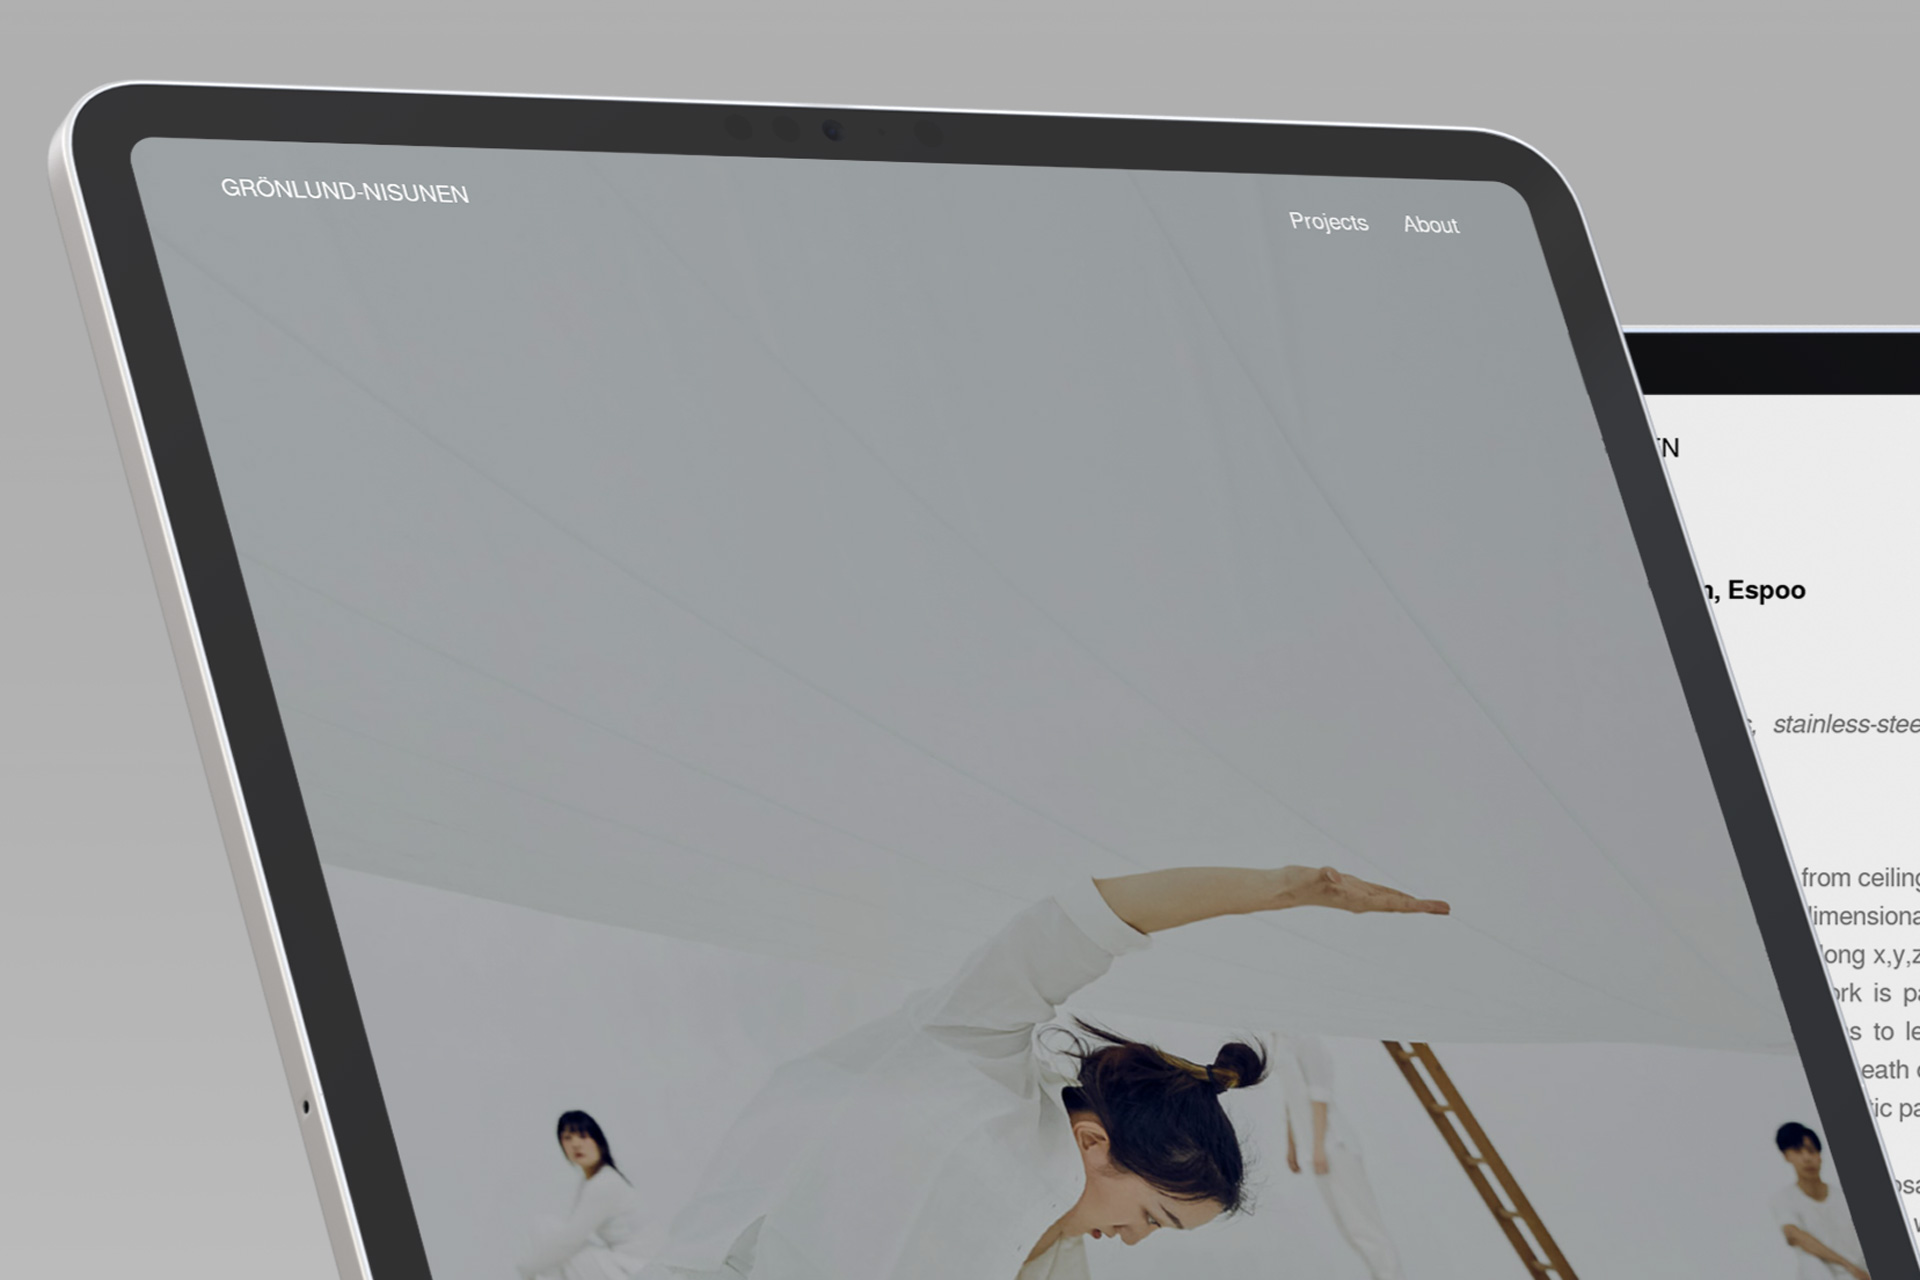
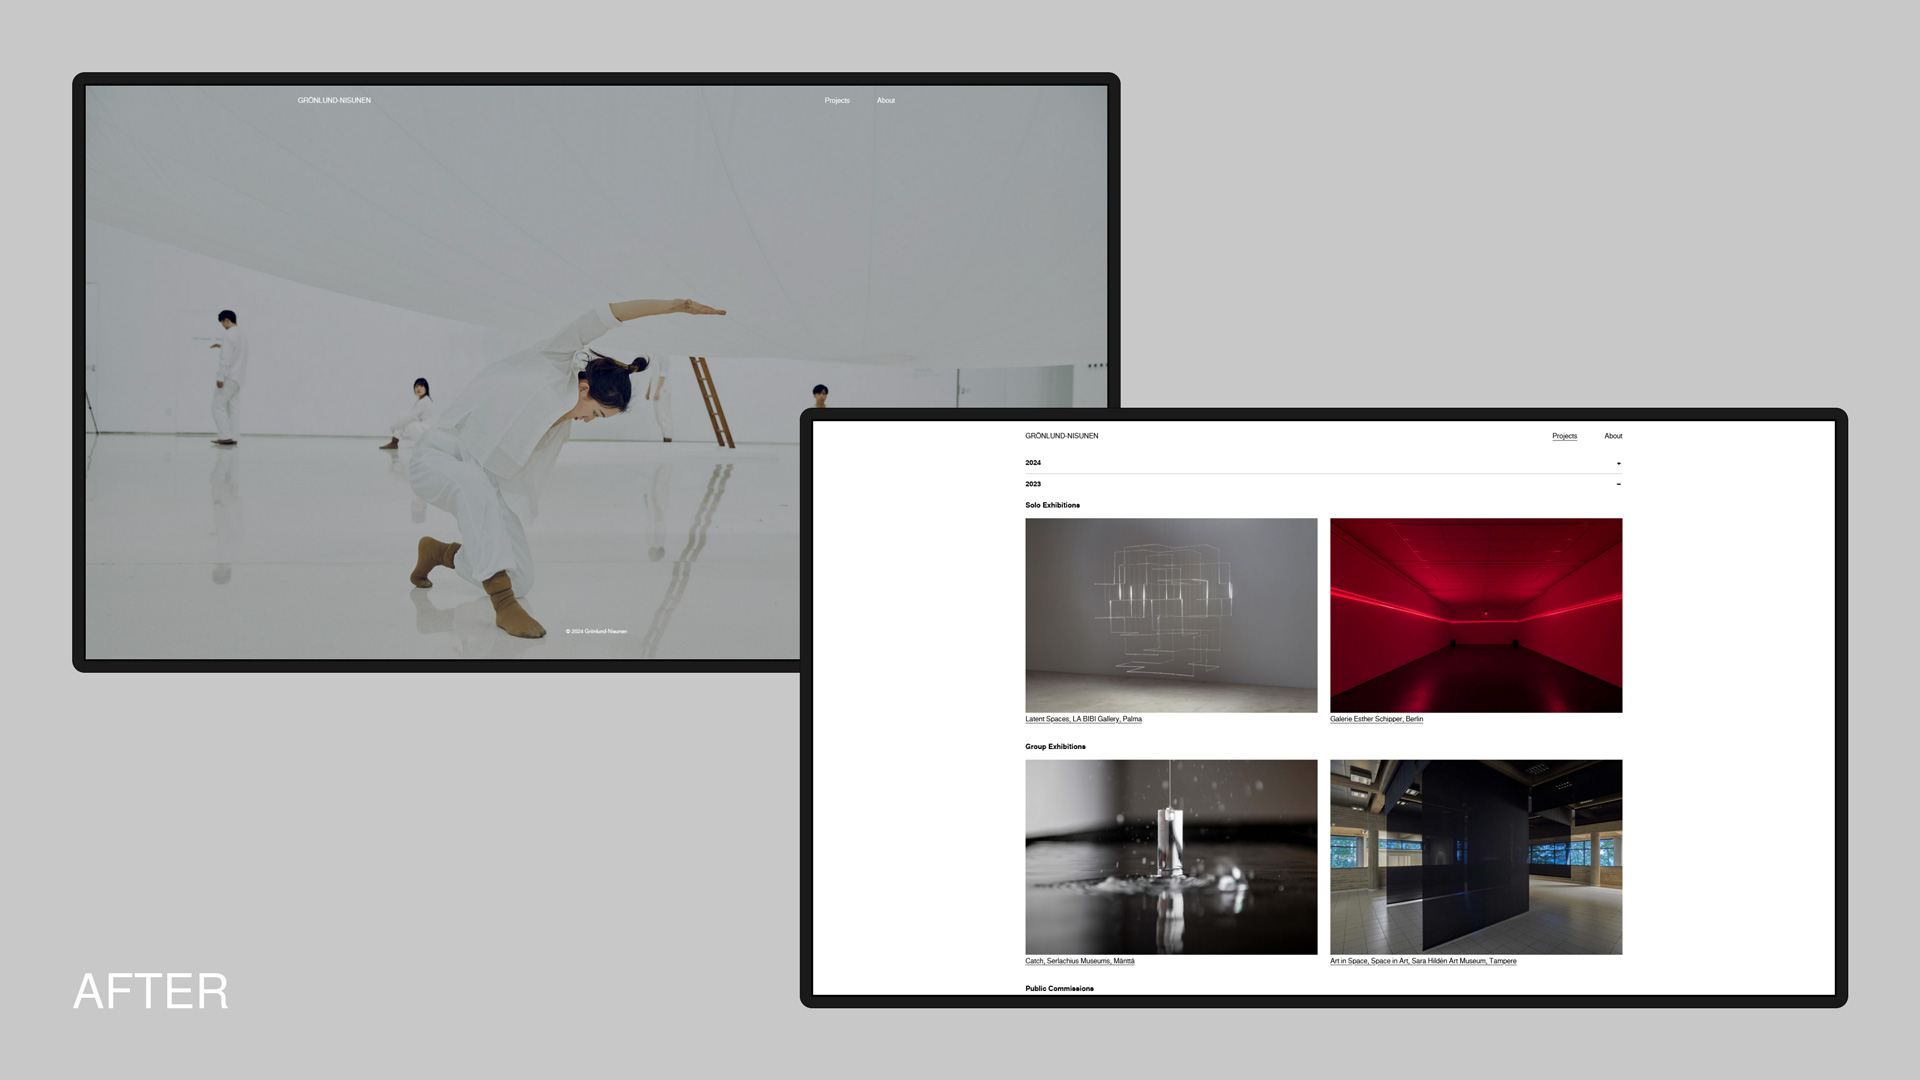
2024_gn_website updated.

diff --git a/pages/2024/2024_gn_website.html b/pages/2024/2024_gn_website.html
@@ -38,10 +38,11 @@
           </i>
           <br>
           <br>
-          When I began this project, the old website's content had not been updated for three years, and its design has
-          remained the same since it was created 20 years ago. My main task was to make the website responsive for
-          mobile devices to improve the user experience while maintaining its minimalistic visual appearance. I built
-          the new website from scratch with HTML, CSS, and JavaScript without using any external libraries.
+          When I started this project in summer 2023, the old website's content had not been updated for three years,
+          and its design has remained the same since its creation 20 years ago. My main task was to make the website
+          responsive for mobile devices and to improve the user experience while maintaining its minimalistic visual
+          appearance. I built the new website from scratch with HTML, CSS, and JavaScript without using any external
+          libraries.
           <br>
           <br>
           Software:
@@ -51,12 +52,13 @@
       </div>
       <br>
       <div class="column right">
-        <a href="2024_GN_Website_5.jpg" target="_blank"><img src="2024_GN_Website_5.jpg" alt="2024_GN_Website_5"></a>
-        <p class="title">Old website: front page</p>
+        <a href="2024_GN_Website_1.jpg" target="_blank"><img src="2024_GN_Website_1.jpg" alt="2024_GN_Website_1"></a>
         <br>
         <br>
-        <a href="2024_GN_Website_6.jpg" target="_blank"><img src="2024_GN_Website_6.jpg" alt="2024_GN_Website_6"></a>
-        <p class="title">Old website: navigation</p>
+        <a href="2024_GN_Website_2.jpg" target="_blank"><img src="2024_GN_Website_2.jpg" alt="2024_GN_Website_2"></a>
+        <br>
+        <br>
+        <a href="2024_GN_Website_3.jpg" target="_blank"><img src="2024_GN_Website_3.jpg" alt="2024_GN_Website_3"></a>
       </div>
     </div>
     <div class="row">
@@ -81,16 +83,13 @@
         </p>
       </div>
       <div class="column right">
-        <a href="2024_GN_Website_1.jpg" target="_blank"><img src="2024_GN_Website_1.jpg" alt="2024_GN_Website_1"></a>
-        <br>
-        <br>
-        <a href="2024_GN_Website_2.jpg" target="_blank"><img src="2024_GN_Website_2.jpg" alt="2024_GN_Website_2"></a>
-        <br>
-        <br>
-        <a href="2024_GN_Website_3.jpg" target="_blank"><img src="2024_GN_Website_3.jpg" alt="2024_GN_Website_3"></a>
-        <br>
-        <br>
         <a href="2024_GN_Website_4.jpg" target="_blank"><img src="2024_GN_Website_4.jpg" alt="2024_GN_Website_4"></a>
+        <br>
+        <br>
+        <a href="2024_GN_Website_5.jpg" target="_blank"><img src="2024_GN_Website_5.jpg" alt="2024_GN_Website_5"></a>
+        <br>
+        <br>
+        <a href="2024_GN_Website_6.jpg" target="_blank"><img src="2024_GN_Website_6.jpg" alt="2024_GN_Website_6"></a>
       </div>
     </div>
   </main>

diff --git a/style.css b/style.css
@@ -383,6 +383,10 @@ a:visited:hover {
     background-color: #000;
   }
 
+  .project {
+    margin-bottom: 60px;
+  }
+
   .row {
     padding-top: 123px;
   }
